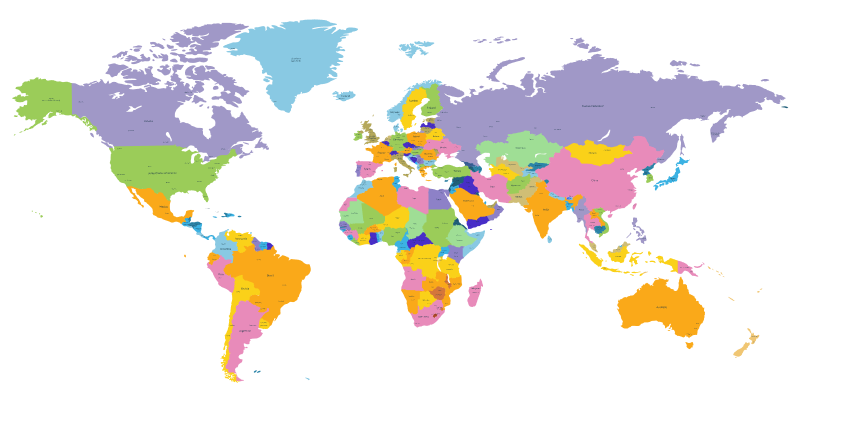
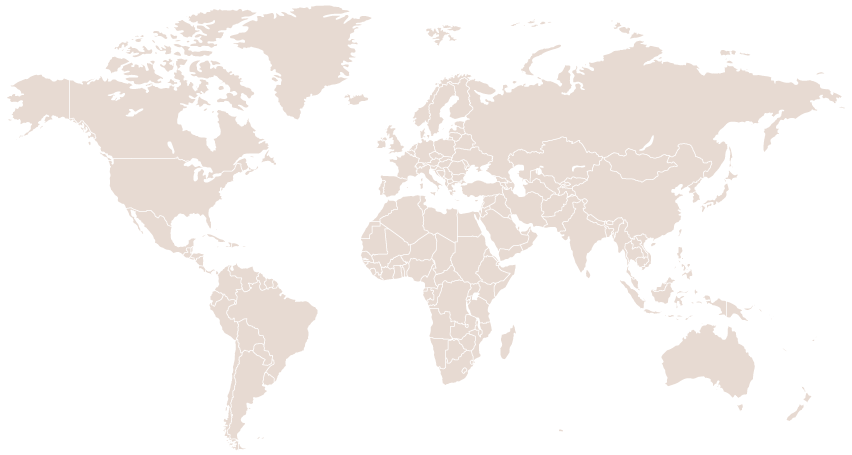
feat: add highlited map

diff --git a/components/Map/Map.tsx b/components/Map/Map.tsx
@@ -1,5 +1,5 @@
 import Image from 'next/image'
-import { map } from '/public'
+import { map, map_hovered } from '/public'
 import { H } from '/components'
 import { Export } from '/types'
 
@@ -15,11 +15,18 @@ export const Map = (text: { text: Export }) => {
             <p key={index}>{p}</p>
           ))}
         </div>
-        <Image
-          src={map}
-          alt='last-article'
-          className='object-cover rounded-[3rem] lg:sticky top-5'
-        />
+        <div className='relative group'>
+          <Image
+            src={map}
+            alt='last-article'
+            className='object-cover rounded-[3rem] top-5'
+          />
+          <Image
+            src={map_hovered}
+            alt='last-article'
+            className='object-cover rounded-[3rem] absolute inset-0 opacity-0 group-hover:opacity-100 duration-300 transition-opacity z-10'
+          />
+        </div>
       </div>
     </>
   )

diff --git a/public/images/index.ts b/public/images/index.ts
@@ -7,6 +7,7 @@ import barambinos from './barambinos.png'
 import barambinos2 from './barambinos2.png'
 import barambinoArch from './barambino-arch.png'
 import map from './map.png'
+import map_hovered from './map-hovered.png'
 
 export {
   banner,
@@ -18,5 +19,6 @@ export {
   barambinos2,
   barambinoArch,
   map,
+  map_hovered,
 }
 export * from './brand'
